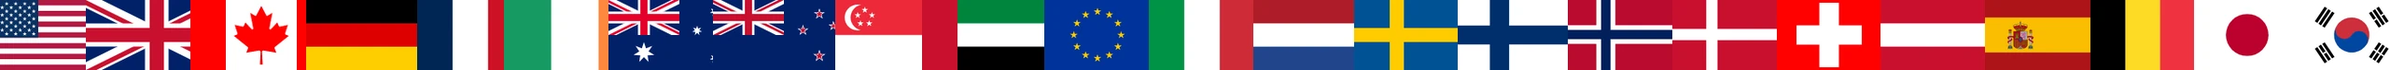
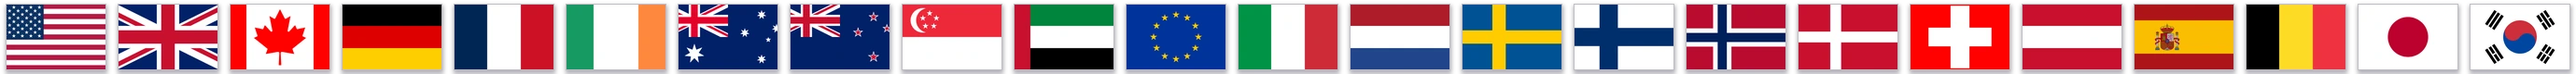
Fix flag bleed, restore the reference wheel palette, settle the stat cards
Three fixes to the Referral Program page.

The flag sprite's cells sat edge to edge, so scaling a cell down to ~47px on
screen made the browser resample ACROSS the cell boundary and pull a sliver of
the next country into every flag — visible as a doubled edge on each one. Each
cell now carries a transparent gutter, so that bleed lands on nothing. Element
boxes are sized to the whole cell to match.

Removing the box-shadow (it traced the element box, gutter included) then left
France, Ireland and the other white-banded flags reading as two loose stripes
against the white card. A hairline and a soft shadow are baked into the sprite
instead: correct against any background, and free at runtime, where a
drop-shadow filter on 46 animating elements would not be.

The wheel goes back to the reference design's pastel wedges — periwinkle,
orange, teal, gold, lilac, pink, mint, sky — with dark labels, which the light
wedges need. An earlier commit had rebuilt these on the site's navy-to-orange
ramp; the client's palette is the one they want.

The fourth stat card held a word where the other three hold figures, so in the
display serif at figure size it read as a mismatched headline. Words now take
the body face a size down, and the four cards share a height with their labels
on a common baseline so a two-line label cannot stretch one card.

diff --git a/resources/views/pages/referral-program.blade.php b/resources/views/pages/referral-program.blade.php
@@ -16,11 +16,10 @@
          .ref-who-icon joins the shared UNIFIED ICON-TILE SYSTEM
        • the 23 flags were pulled from flagcdn.com — 23 cross-origin images, and
          46 <img> elements once the marquee duplicates them. They are now ONE
-         18 KB local sprite (assets/referral/flags.webp), positioned by index
+         21 KB local sprite (assets/referral/flags.webp), positioned by index
        • AOS (a CDN animation library) is gone; reveal-on-scroll is a dozen lines
          of IntersectionObserver, matching the other Student Hub pages
-       • the wheel's random pastel palette was rebuilt from the site's navy →
-         indigo → orange ramp so it stops fighting the brand
+       • the wheel keeps the reference design's pastel wedge palette exactly
        • the form was a client-side fake that only changed a caption; it now
          POSTs to the CRM through the site's shared AJAX handler
        • the inline base64 photo is served as a file under assets/referral/
@@ -197,9 +196,16 @@
   #ref-page .rf-reveal.is-in{ opacity:1; transform:none; }
 
   /* ══ Flag sprite ══
-     One 18 KB WebP strip holds all {{ $spriteCells }} flags at 2x. Each cell is shown by
-     shifting the background by the flag's index, so the marquee, the wheel and
-     the popup all share a single cached image and a single request. */
+     One WebP strip holds all {{ $spriteCells }} flags. Each cell is shown by shifting the
+     background by the flag's index, so the marquee, the wheel and the popup all
+     share a single cached image and a single request.
+
+     Each cell carries a transparent gutter around its flag. Without it the cells
+     sat edge to edge, and scaling a 120px cell down to ~47px on screen made the
+     browser resample ACROSS the cell boundary — pulling a sliver of the next
+     country into every flag. The gutter means that bleed lands on transparency.
+     Element boxes below are therefore sized to the whole cell (3:2), which is
+     slightly larger than the flag it frames. */
   #ref-page .rf-flag{
     display:block; background-image:url('{{ asset('assets/referral/flags.webp') }}');
     background-repeat:no-repeat;
@@ -251,10 +257,14 @@
   #ref-page .rf-flagbtn:hover{ transform:translateY(-4px); }
   #ref-page .rf-pole{ position:relative; width:2px; height:34px; border-radius:2px;
     background:linear-gradient(180deg, var(--rf-navy-soft), rgba(58,31,184,.15)); }
+  /* Sized to the sprite cell (3:2), so the flag inside reads at ~42x28. No
+     box-shadow: it would trace the element box, including the transparent
+     gutter, rather than the flag. A drop-shadow filter would follow the alpha
+     correctly but there are 46 of these and they animate, so the shadow is
+     simply dropped here — at this size on a white card it added nothing. */
   #ref-page .rf-cloth{
-    position:absolute; top:0; left:1px; width:42px; height:28px; border-radius:0 3px 3px 0;
-    box-shadow:0 3px 9px rgba(0,0,0,.22); transform-origin:left center;
-    animation:rfWave 2.6s ease-in-out infinite;
+    position:absolute; top:-1px; left:1px; width:47px; height:31px;
+    transform-origin:left center; animation:rfWave 2.6s ease-in-out infinite;
   }
   #ref-page .rf-flagbtn:nth-child(3n) .rf-cloth{ animation-delay:.3s; }
   #ref-page .rf-flagbtn:nth-child(3n+1) .rf-cloth{ animation-delay:.7s; }
@@ -270,13 +280,21 @@
   #ref-page .rf-hero__sub{ font-size:17.5px; max-width:50ch; margin-bottom:30px; }
   #ref-page .rf-hero__ctas{ display:flex; gap:14px; flex-wrap:wrap; margin-bottom:38px; }
   #ref-page .rf-stats{ display:grid; grid-template-columns:repeat(4,minmax(0,1fr)); gap:12px; max-width:560px; }
+  /* The four cards share a height and put their labels on a common baseline, so
+     a two-line label cannot make one card taller than its neighbours. */
   #ref-page .rf-stat{ background:var(--rf-paper); border:1px solid var(--rf-line); border-radius:16px;
-    padding:18px 12px; text-align:center; box-shadow:var(--rf-shadow-md); }
-  /* Clamped, not fixed: one of the four figures is a word ("Unlimited"), which
-     at a flat 29px crowded the edges of its card. */
-  #ref-page .rf-stat b{ display:block; font-family:var(--rf-serif); font-size:clamp(22px,2.1vw,29px);
-    font-weight:700; line-height:1.05; color:var(--rf-navy); }
-  #ref-page .rf-stat small{ display:block; font-size:11.5px; color:var(--rf-muted); margin-top:6px; line-height:1.35; }
+    padding:18px 12px; text-align:center; box-shadow:var(--rf-shadow-md);
+    display:flex; flex-direction:column; justify-content:center; }
+  #ref-page .rf-stat b{ display:block; font-family:var(--rf-serif); font-size:clamp(24px,2.1vw,30px);
+    font-weight:700; line-height:1.1; color:var(--rf-navy); }
+  /* One of the four values is a word, not a figure. In the display serif at
+     figure size it read as a mismatched headline rather than a stat, so words
+     take the body face a size down — same weight on the page, no pretence of
+     being a number. */
+  #ref-page .rf-stat b.rf-stat--word{ font-family:var(--rf-sans); font-size:clamp(17px,1.5vw,20px);
+    font-weight:800; letter-spacing:-.01em; }
+  #ref-page .rf-stat small{ display:block; font-size:11.5px; color:var(--rf-muted);
+    margin-top:7px; line-height:1.35; text-wrap:balance; min-height:2.7em; }
 
   /* ══ Spin & discover ══ */
   #ref-page .rf-game{
@@ -317,9 +335,11 @@
      container the default flex-shrink:1 crushes every child to zero height. The
      text labels survived by overflowing; the flags, having no content, vanished. */
   #ref-page .rf-seg > *{ flex-shrink:0; }
-  #ref-page .rf-seg .rf-flag{ width:22px; height:15px; border-radius:2px; box-shadow:0 1px 4px rgba(0,0,0,.28); }
-  #ref-page .rf-seg span{ font-size:9.5px; font-weight:800; color:#fff; line-height:1.05;
-    white-space:nowrap; text-shadow:0 1px 3px rgba(10,0,60,.55); }
+  #ref-page .rf-seg .rf-flag{ width:24px; height:16px; }
+  /* Dark ink on the pastel wedges, per the reference design — the wedge colours
+     are light, so white labels washed out against them. */
+  #ref-page .rf-seg span{ font-size:9.5px; font-weight:800; color:#1a0f4d; line-height:1.05;
+    white-space:nowrap; text-shadow:0 1px 2px rgba(255,255,255,.55); }
   #ref-page .rf-wheel-hub{
     position:absolute; top:50%; left:50%; transform:translate(-50%,-50%); z-index:2;
     width:40px; height:40px; border-radius:50%; background:#fff; color:var(--rf-navy);
@@ -452,8 +472,10 @@
     display:inline-flex; align-items:center; justify-content:center; }
   #ref-page .rf-modal__x:hover{ background:var(--rf-orange); color:#fff; }
   #ref-page .rf-modal__x i{ width:16px; height:16px; }
-  #ref-page .rf-modal__flag{ width:58px; height:39px; border-radius:6px; margin-bottom:16px;
-    box-shadow:0 4px 10px rgba(0,0,0,.2); }
+  /* Cell-sized like the others; drop-shadow (not box-shadow) so it traces the
+     flag rather than the transparent gutter. Only one of these, and static. */
+  #ref-page .rf-modal__flag{ width:64px; height:43px; margin-bottom:16px;
+    filter:drop-shadow(0 4px 8px rgba(0,0,0,.22)); }
   #ref-page .rf-modal__card h3{ font-size:21px; margin-bottom:3px; padding-right:36px; }
   #ref-page .rf-modal__q{ font-size:14px; margin-bottom:16px; }
   #ref-page .rf-modal__list{ display:flex; flex-direction:column; gap:10px; margin-bottom:22px; }
@@ -537,13 +559,13 @@
             <div class="rf-stat"><b>500+</b><small>Students guided</small></div>
             <div class="rf-stat"><b>{{ count($destinations) }}+</b><small>Study destinations</small></div>
             <div class="rf-stat"><b>95%</b><small>Visa success</small></div>
-            <div class="rf-stat"><b>Unlimited</b><small>Referrals per person</small></div>
+            <div class="rf-stat"><b class="rf-stat--word">Unlimited</b><small>Referrals per person</small></div>
           </div>
         </div>
 
         <div class="rf-game">
           <p class="rf-eyebrow">Click to play</p>
-          <h3>Spin &amp; discover a destination</h3>
+          <h3>Spin &amp; discover your destination</h3>
           <div class="rf-wheel-outer">
             <div class="rf-wheel-pointer" aria-hidden="true"></div>
             <div class="rf-wheel" data-rf-wheel>
@@ -570,9 +592,9 @@
             <span class="rf-wheel-hub" aria-hidden="true"><i data-lucide="globe"></i></span>
           </div>
           <button type="button" class="rf-btn rf-btn--primary" data-rf-spin>
-            <i data-lucide="sparkles"></i> Spin the wheel
+            <i data-lucide="sparkles"></i> Spin the Wheel
           </button>
-          <p class="rf-game__result" data-rf-result role="status" aria-live="polite">Give it a spin.</p>
+          <p class="rf-game__result" data-rf-result role="status" aria-live="polite">Give it a spin!</p>
         </div>
       </div>
     </div>
@@ -889,9 +911,9 @@
   var result = root.querySelector('[data-rf-result]');
 
   if (wheel && spinBtn && WHEEL.length) {
-    // Wedge colours walk the site's navy → indigo → orange ramp instead of the
-    // design's random pastels, which fought the rest of the page.
-    var RAMP = ['#1a0088', '#2f1aa8', '#4a2fc4', '#6a46d6', '#a35ab0', '#d15a74', '#f06a4a', '#ff8f5e'];
+    // The reference design's wedge palette, kept exactly: periwinkle, orange,
+    // teal, gold, lilac, pink, mint, sky — in this order, one per segment.
+    var RAMP = ['#7c83fd', '#ff9f68', '#4ecdc4', '#ffd166', '#a39bff', '#ff8fa3', '#5fd9c4', '#74b9ff'];
     var segAngle = 360 / WHEEL.length;
     var stops = WHEEL.map(function (seg, i) {
       return RAMP[i % RAMP.length] + ' ' + (i * segAngle) + 'deg ' + ((i + 1) * segAngle) + 'deg';

diff --git a/tests/Feature/ReferralProgramTest.php b/tests/Feature/ReferralProgramTest.php
@@ -56,7 +56,7 @@ class ReferralProgramTest extends TestCase
             ->assertSee('Refer a student.')
             ->assertSee('Earn rewards.')
             ->assertSee('Anyone in your circle can refer')
-            ->assertSee('Spin &amp; discover a destination', false)
+            ->assertSee('Spin &amp; discover your destination', false)
             ->assertSee('Submit a referral in minutes')
             ->assertSee('The fine print, made simple');
     }
